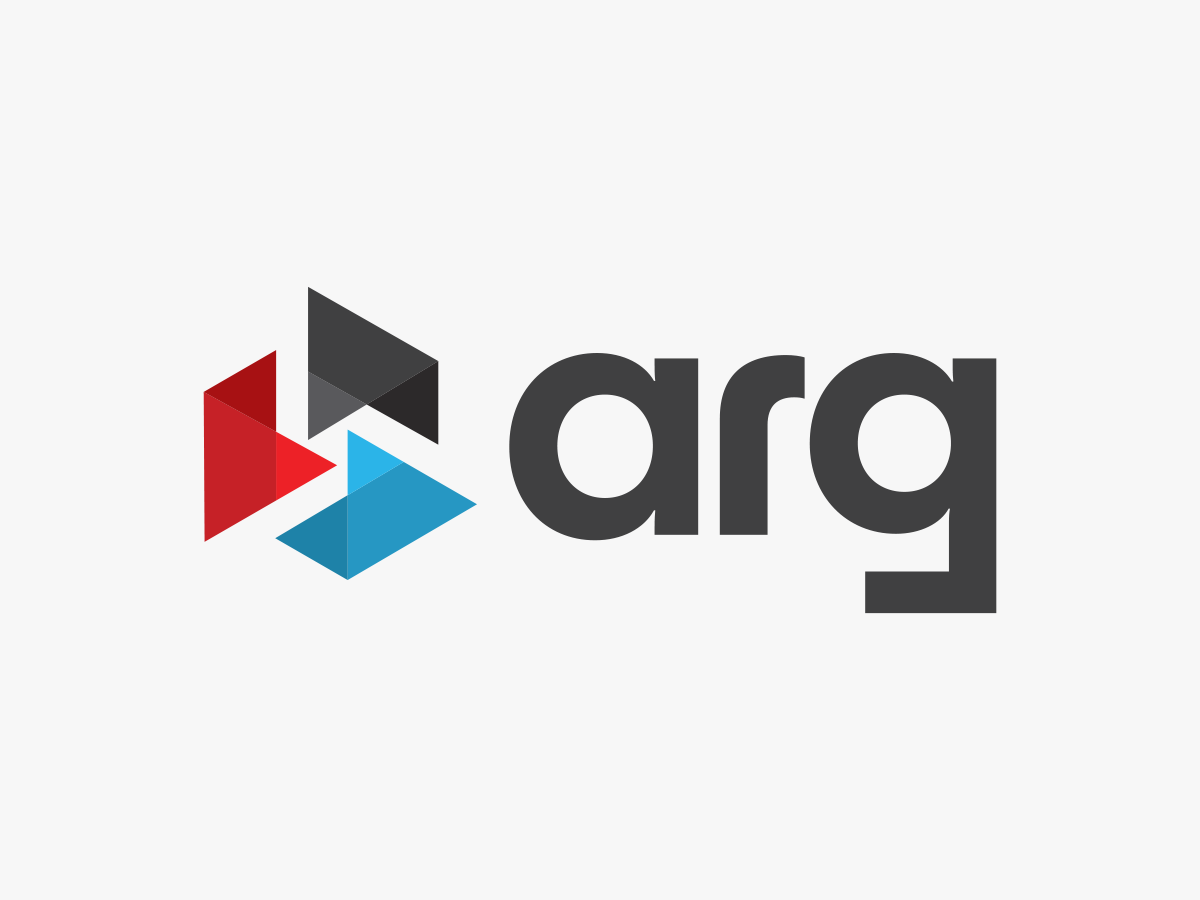
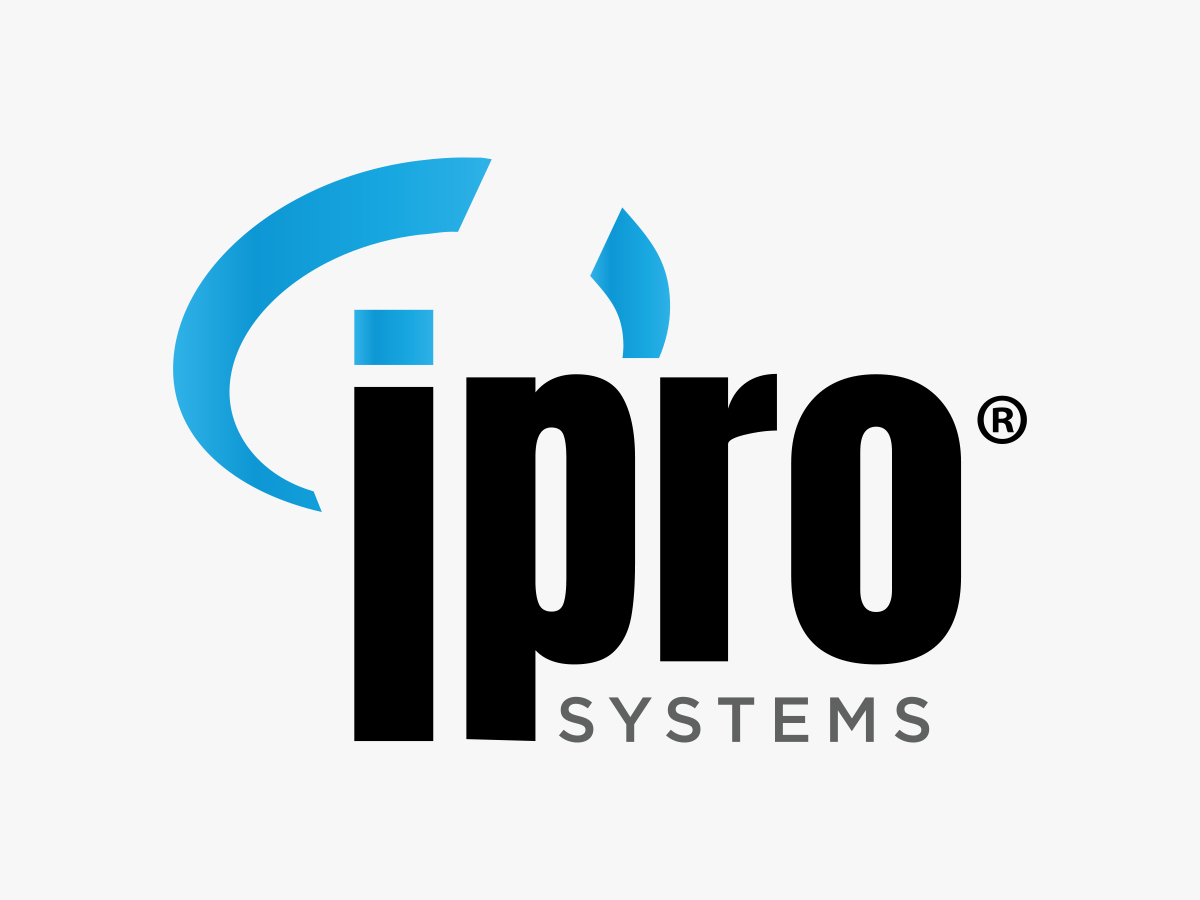
Theme update to iPro branding.

Changed region(s): [[0.1233, 0.1556, 0.8633, 0.84]]

diff --git a/style.css b/style.css
@@ -1,5 +1,5 @@
 /*
-	Theme Name: Alliance Retail Group
+	Theme Name: iPro Systems
 	Description: Serving Independent Retailers Since 1991
 	Template: yootheme
 	Text Domain: iprosystems

diff --git a/includes/delete-posts-and-media.php b/includes/delete-posts-and-media.php
@@ -1,7 +1,7 @@
 <?php
 function daily_permanent_post_deletion() {
     // Define an array of custom post types to be deleted.
-    $custom_post_types = array('weekly-ad', 'promo');
+    $custom_post_types = array('weekly-ad', 'promo', 'alert', 'reward', 'featured-item');
 
     foreach ($custom_post_types as $post_type) {
         // Get all posts of the specified post type with 'trash' status.
